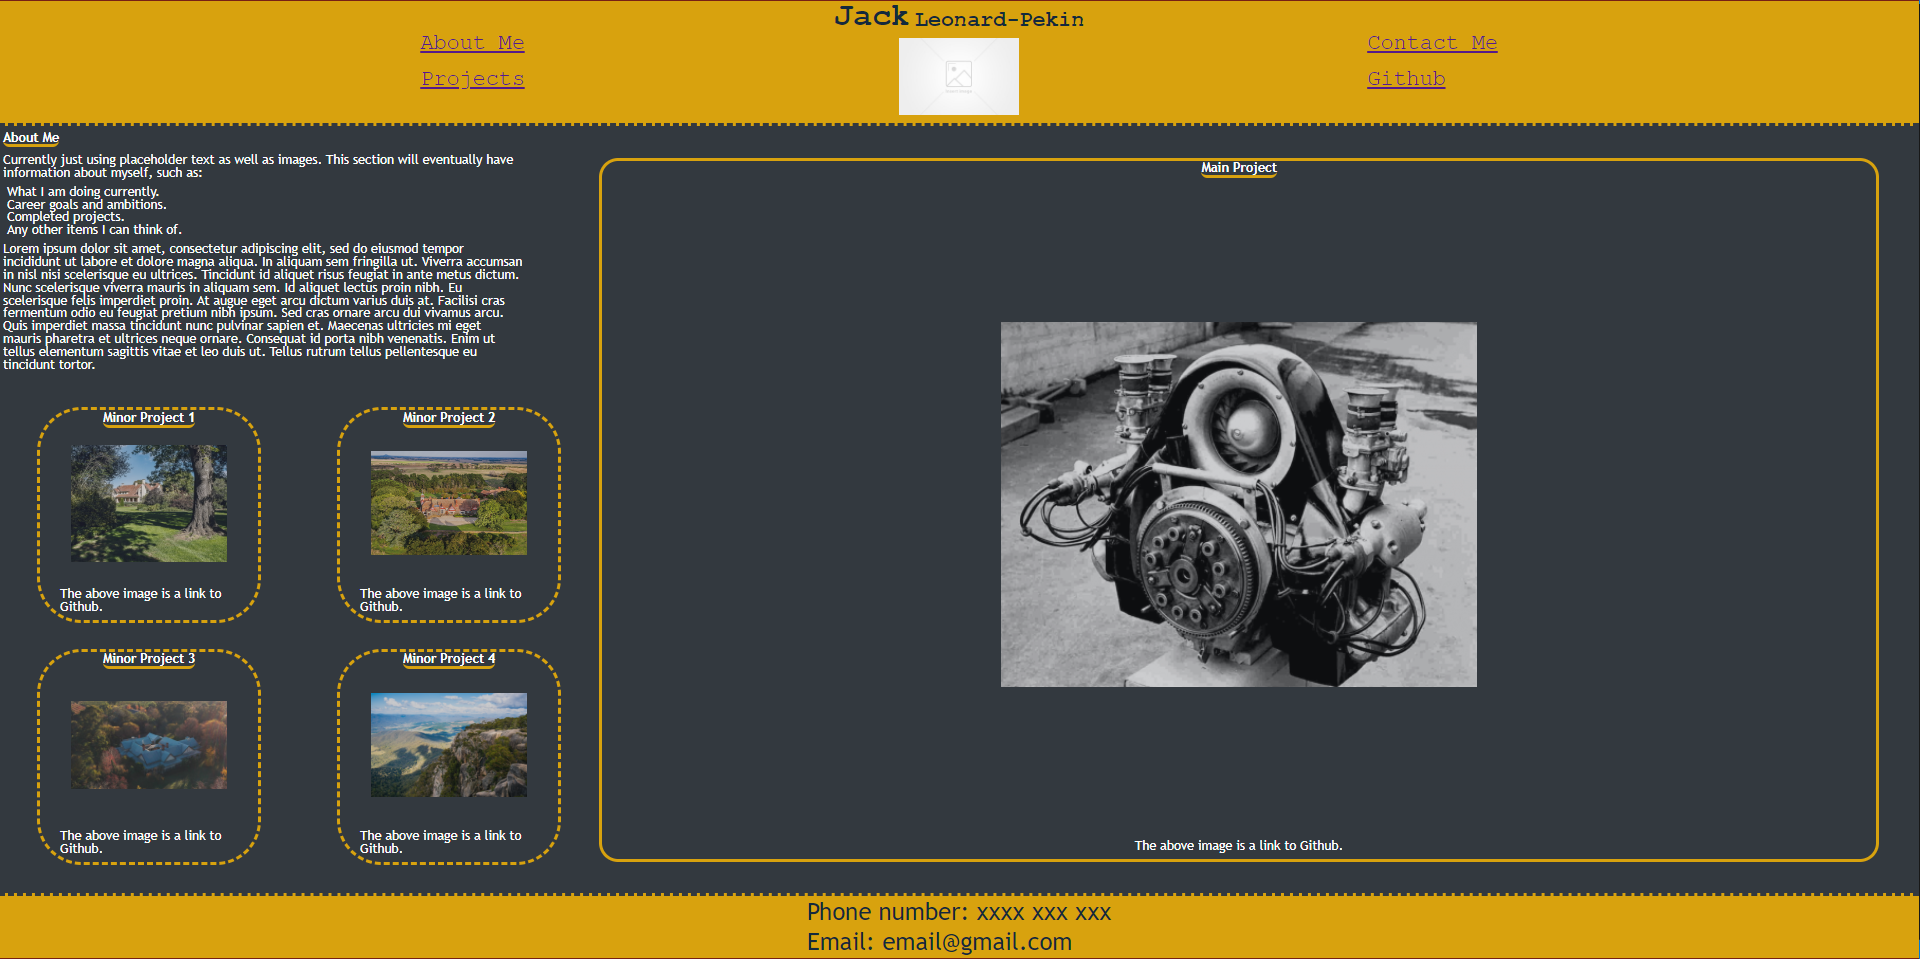
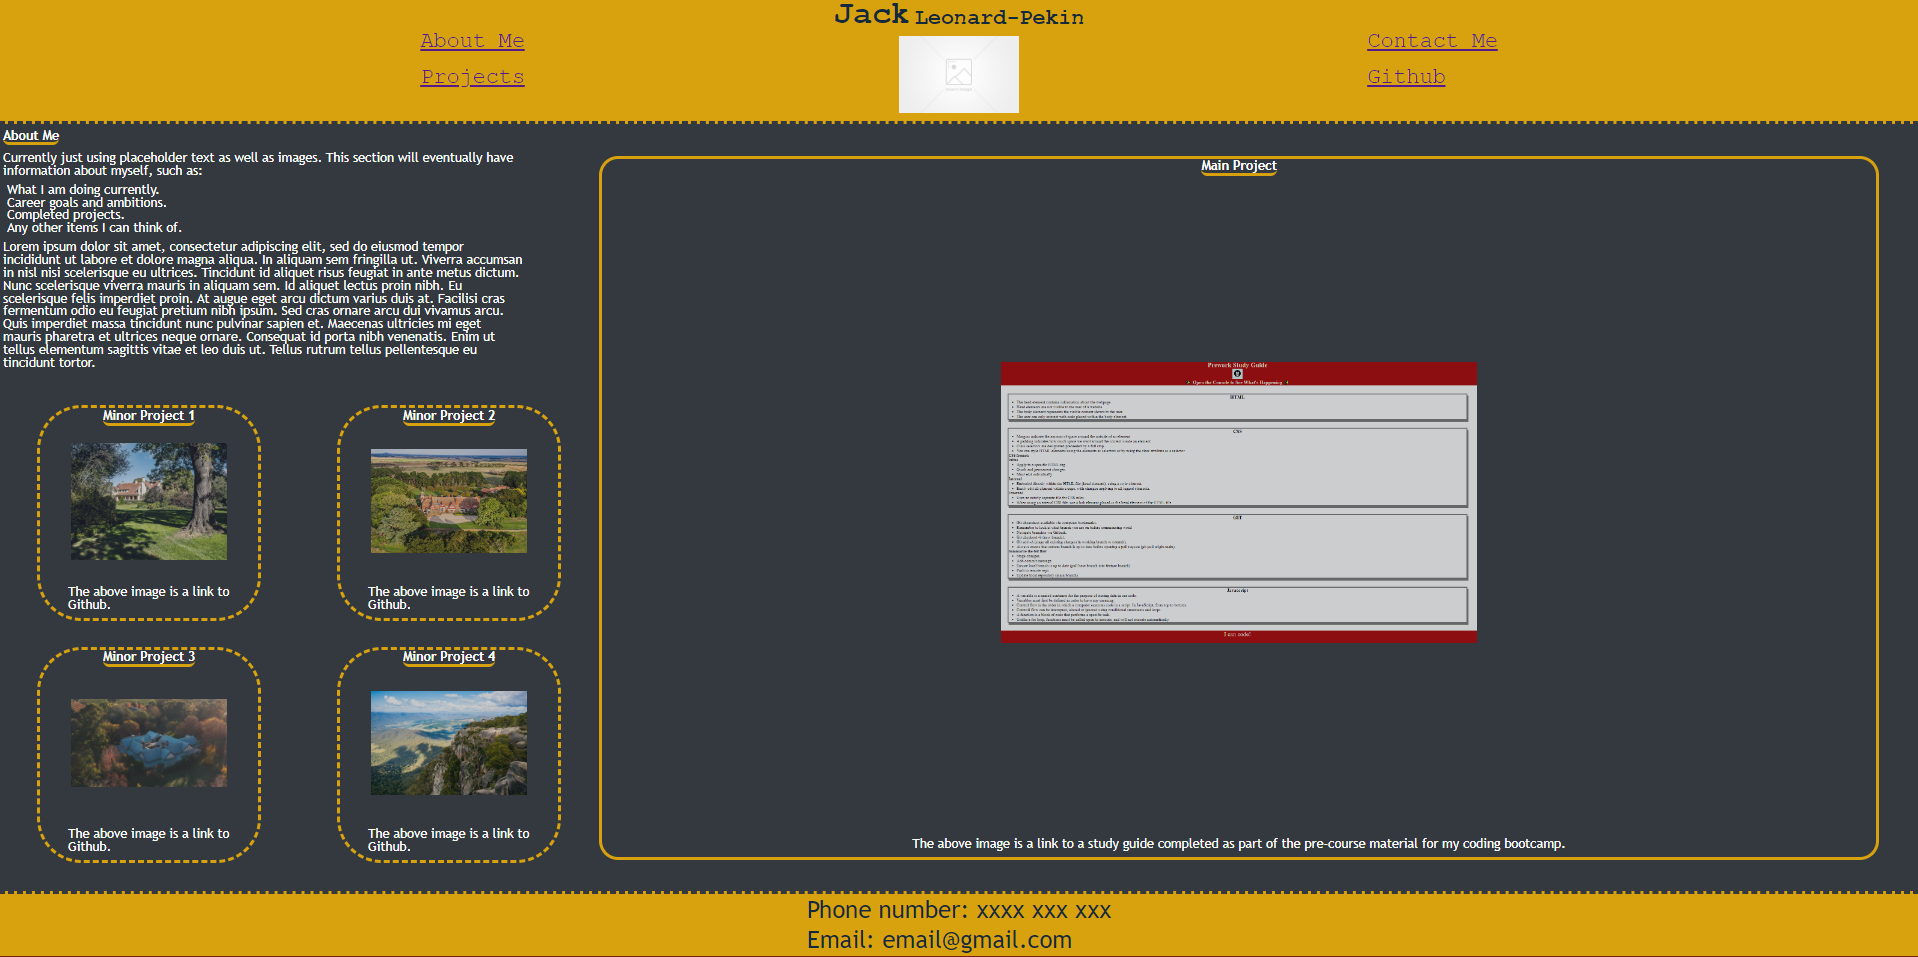
readme has been written up and all items on to do list have been completed.

diff --git a/index.html b/index.html
@@ -55,8 +55,8 @@
     <aside id="sub-right">
         <section id="projects" class="main-project">
             <h2>Main Project</h2>
-            <a target="_blank" href="https://www.github.com"><img id="main-image" src="./Assets/Images/image-e.png" alt="filler-image"></a>
-            <p>The above image is a link to Github.</p>
+            <a target="_blank" href="https://github.com/JLP-55/prework_study_guide"><img id="main-image" src="./Assets/Images/Prework-study-guide.PNG" alt="filler-image"></a>
+            <p>The above image is a link to a study guide project repo, completed as part of the pre-course material for my coding bootcamp.</p>
         </section>
     </aside>
 
@@ -94,9 +94,3 @@
     </footer>
 </body>
 </html>
-
-<!--Still to do:
-
-add flex grow/shrink for project boxes
-add readme file
-link to different projects that i have done. the remainder can be to github.

diff --git a/Assets/style.css b/Assets/style.css
@@ -74,7 +74,7 @@ h1 {
     font-size: 1.7rem;
 }
 
-/*header link code*/
+/*header link code. not needed anymore but will keep to mess around with in the future?*/
 /*.header-left {
     margin-left: 5px;
     height: 100px;
@@ -117,7 +117,7 @@ h2 {
     margin-top: 2px
 }
 
-/*if you remove this selector then the paragraph text will flex. not sure why?*/
+/*if you remove this selector then the paragraph text @ < 1450px will flex. not sure why?*/
 #p-text {
     margin: 8px 0px;
     height: auto;
@@ -164,7 +164,7 @@ h2 {
 }
 
 p {
-    margin: 8px 0px;
+    margin: 8px 10px;
 }
 
 /*align items in main project box*/
@@ -197,7 +197,7 @@ p {
 
 #main-image {
     height: auto;
-    width: 595px;
+    width: 625px;
     opacity: 75%;
 }
 

diff --git a/README.md b/README.md
@@ -1,3 +1,40 @@
 # My_Work_Portfolio
 
+## Description
+
+This web page was created with the goal in mind of displaying my growing list of coding skills, as well as a plethora of completed projects to a future potential employer. It entails an about me section, links to all of my deployed applications and/or projects, and lists my contact details also.
+
+Please not that, as I am still in fact learning the basics of web development there is currently not any projects on display as I have not built anything yet. This page should serve as a template for future reference and likely further modification. 
+
+## Usage
+
+A preview of the webpage as it is rendered in the browser, with an "about me" section, links to projects as well as contact details.
+
+Link to the deployed application:
+https://jlp-55.github.io/My_Work_Portfolio/
+
 ![Webpage preview](./Assets/Images/working_preview.PNG)
+
+## License
+
+MIT Licence
+
+Copyright (c) 2023 JLP-55
+
+Permission is hereby granted, free of charge, to any person obtaining a copy
+of this software and associated documentation files (the "Software"), to deal
+in the Software without restriction, including without limitation the rights
+to use, copy, modify, merge, publish, distribute, sublicense, and/or sell
+copies of the Software, and to permit persons to whom the Software is
+furnished to do so, subject to the following conditions:
+
+The above copyright notice and this permission notice shall be included in all
+copies or substantial portions of the Software.
+
+THE SOFTWARE IS PROVIDED "AS IS", WITHOUT WARRANTY OF ANY KIND, EXPRESS OR
+IMPLIED, INCLUDING BUT NOT LIMITED TO THE WARRANTIES OF MERCHANTABILITY,
+FITNESS FOR A PARTICULAR PURPOSE AND NONINFRINGEMENT. IN NO EVENT SHALL THE
+AUTHORS OR COPYRIGHT HOLDERS BE LIABLE FOR ANY CLAIM, DAMAGES OR OTHER
+LIABILITY, WHETHER IN AN ACTION OF CONTRACT, TORT OR OTHERWISE, ARISING FROM,
+OUT OF OR IN CONNECTION WITH THE SOFTWARE OR THE USE OR OTHER DEALINGS IN THE
+SOFTWARE.
